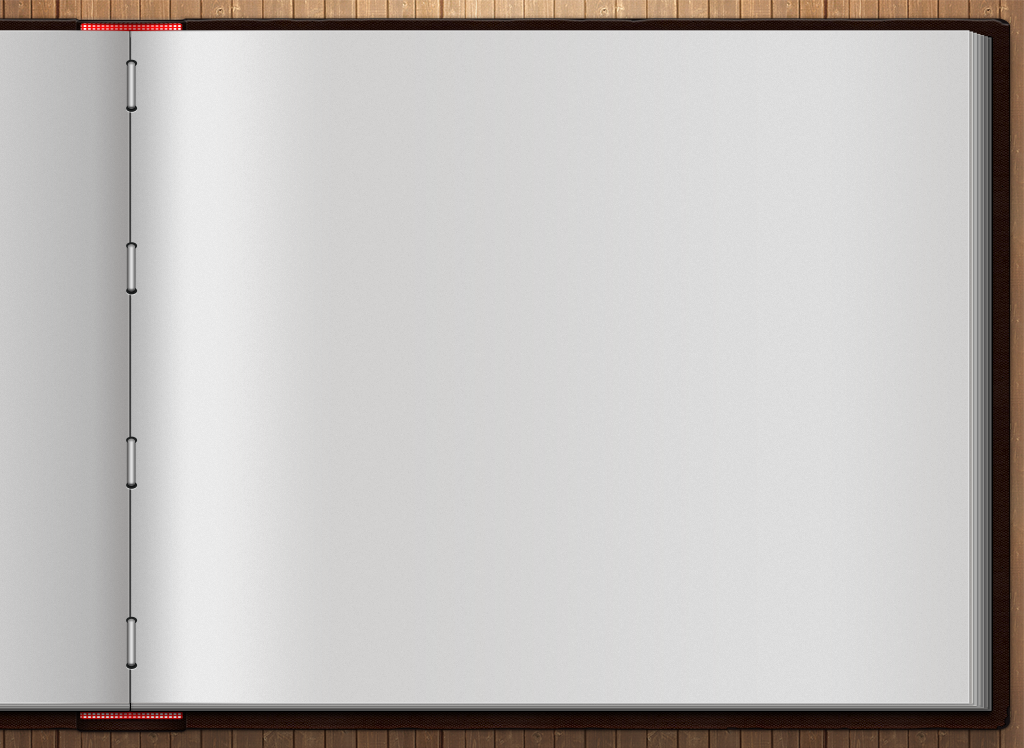
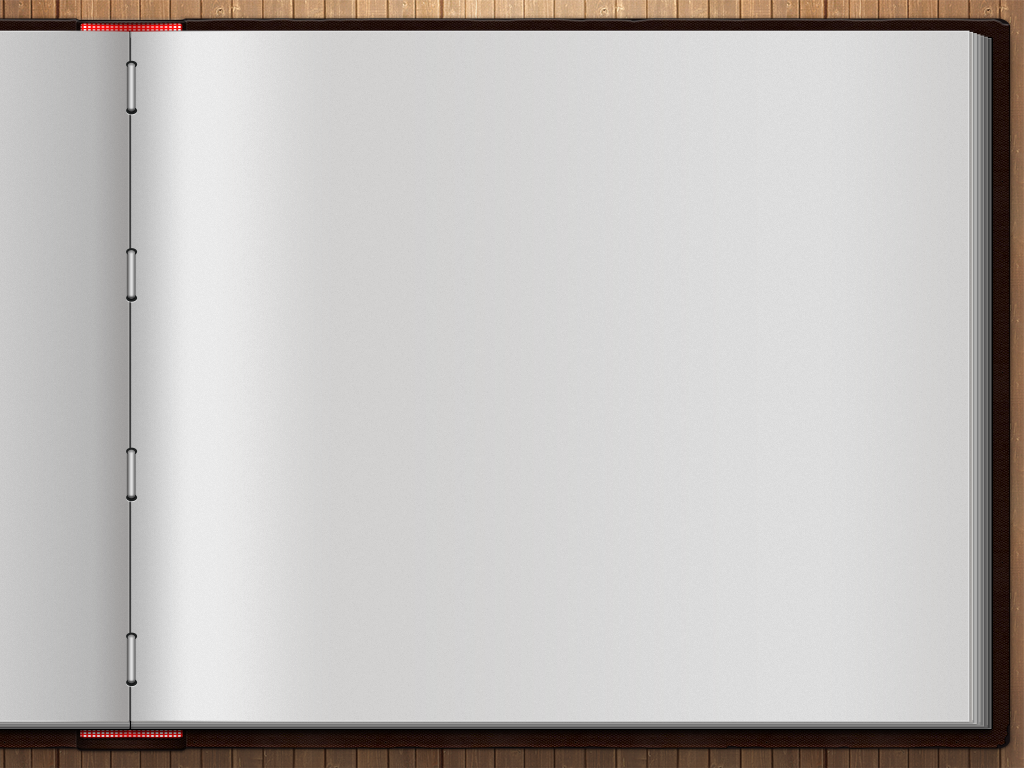
fullscreen(hide statue bar) , order page background apply, several UI position change

Changed region(s): [[0.0, 0.9225, 0.9375, 0.984], [0.0625, 0.0307, 0.1875, 0.0615]]

diff --git a/baroque/baroque/BQOrderViewController.m b/baroque/baroque/BQOrderViewController.m
@@ -145,6 +145,10 @@
     [[NSNotificationCenter defaultCenter]addObserver:self selector:@selector(refreshTotalPrice) name:@"refreshTotalPrice" object:nil];
     [[NSNotificationCenter defaultCenter]addObserver:self selector:@selector(refreshOrderDetail) name:@"refreshOrderDetail" object:nil];
 }
+- (void)viewDidLoad {
+    [super viewDidLoad];
+    self.view.backgroundColor = [UIColor colorWithPatternImage:[UIImage imageNamed:@"back.png"]];
+}
 - (void)viewDidUnload {
     [self setTotalPrice:nil];
     [self setOrderNo:nil];

diff --git a/baroque/baroque/BQAppDelegate.m b/baroque/baroque/BQAppDelegate.m
@@ -12,6 +12,7 @@
 - (BOOL)application:(UIApplication *)application didFinishLaunchingWithOptions:(NSDictionary *)launchOptions
 {
     // Override point for customization after application launch.
+    [[UIApplication sharedApplication]setStatusBarHidden:YES withAnimation:UIStatusBarAnimationNone];
     return YES;
 }
 							
